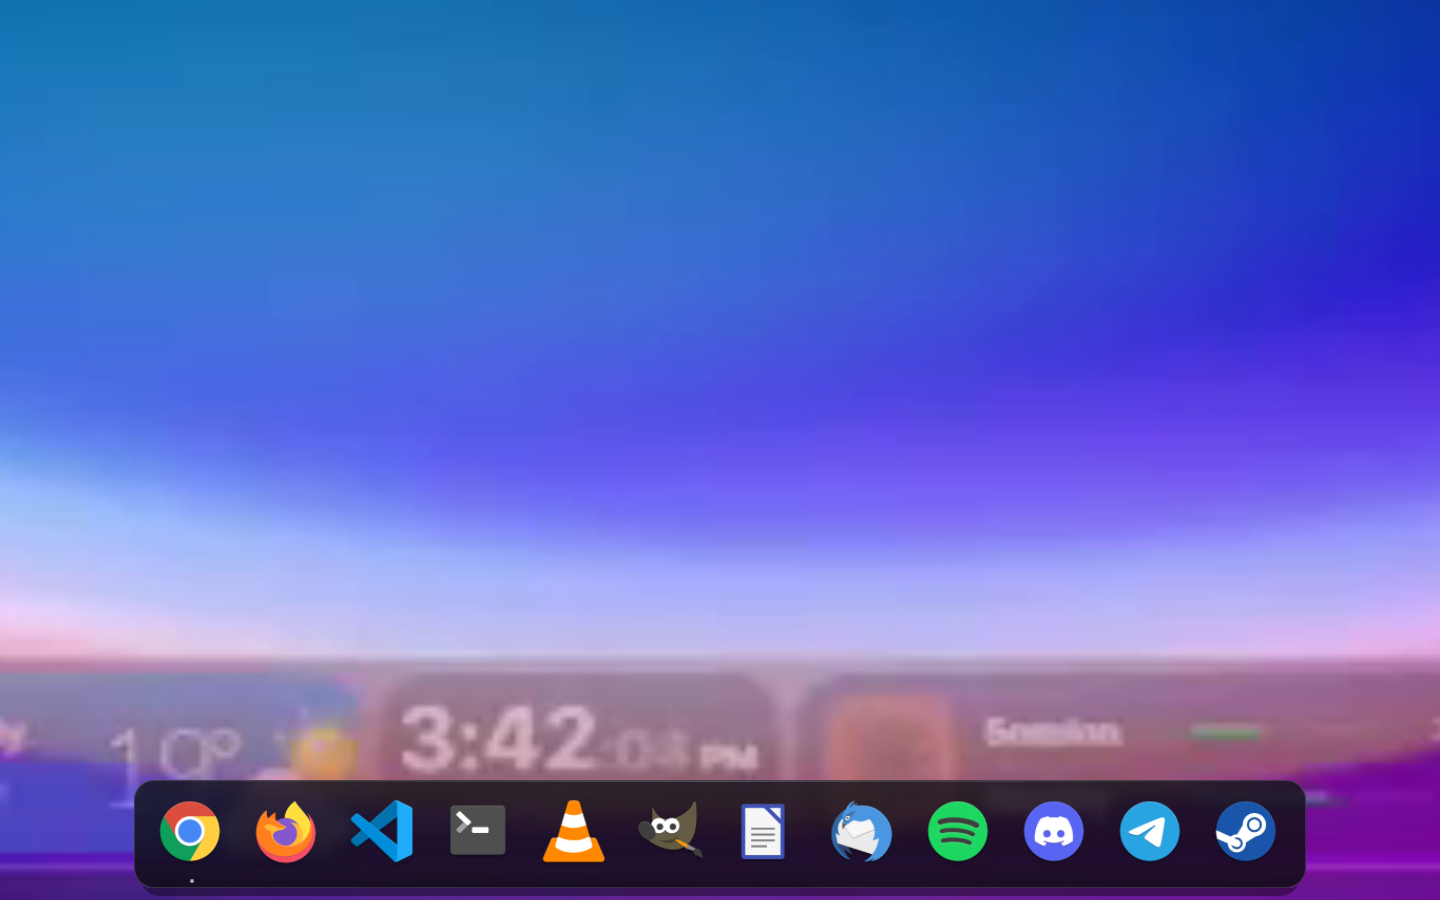
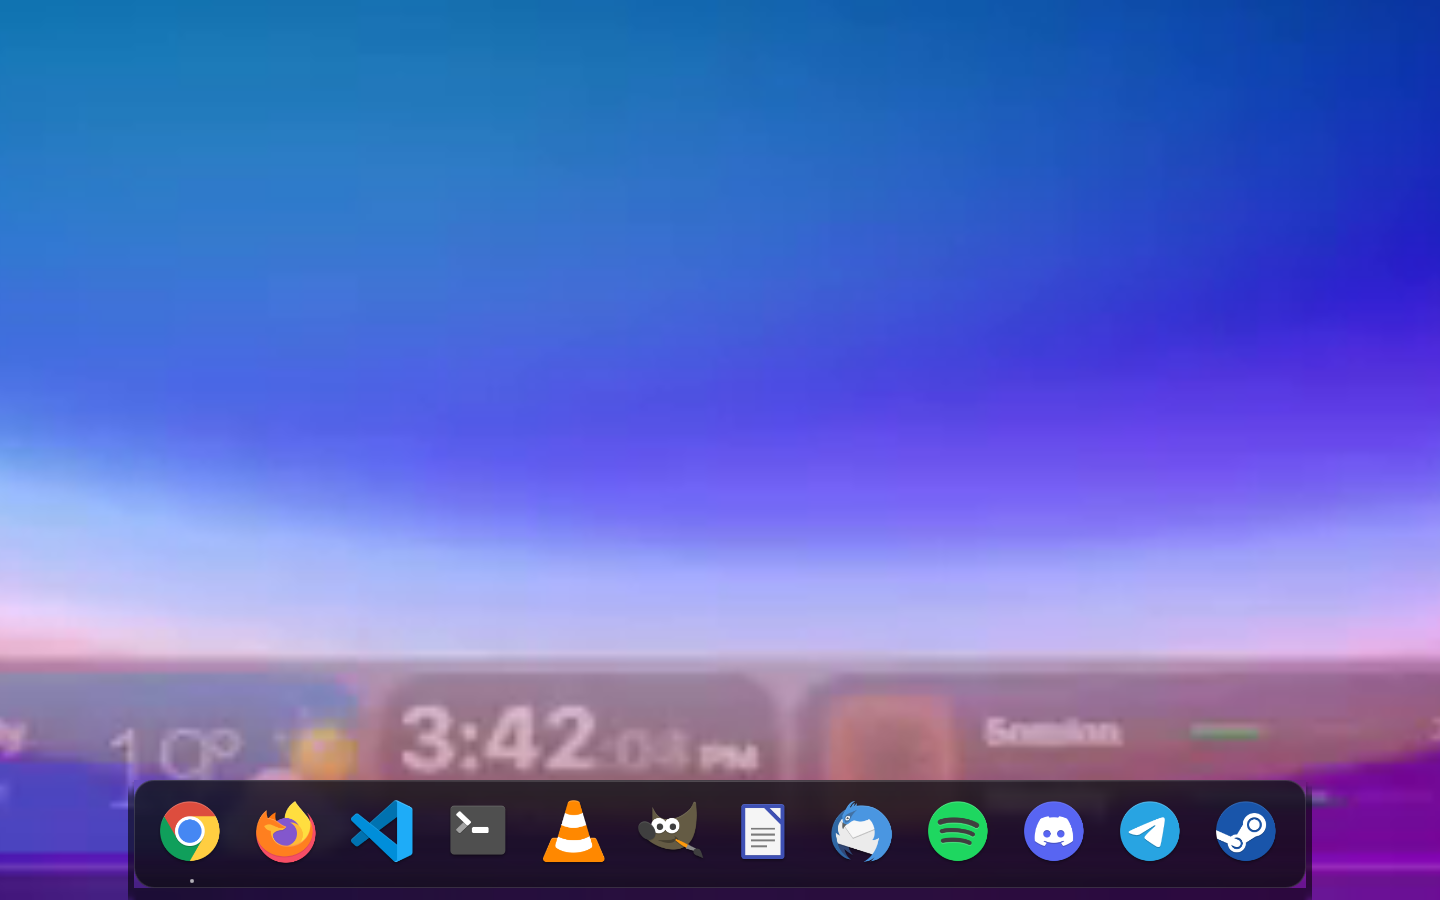
Dock: kare basina efekt maliyeti dusuruldu
- Panel golgesi Python'da bir kez uretilen hazir gorsel; QML layer/MultiEffect kaldirildi.
- Panel maskesi kaldirildi; bulanik goruntu Python'da yuvarlatilmis kose ile uretiliyor.
- Ikonlarda mipmap false.
- Arka plan QTimer tamamen kaldirildi; yakalama yalnizca goster() icinde, pencere gizliyken.
- kanit 01-bos ve 02-hover yenilendi.

Changed region(s): [[0.0625, 0.8711, 0.9375, 1.0]]

diff --git a/qml/Dock.qml b/qml/Dock.qml
@@ -1,5 +1,4 @@
 import QtQuick
-import QtQuick.Effects
 
 Item {
     id: kok
@@ -66,18 +65,17 @@ Item {
         smooth: true
     }
 
-    // Panel ustundeki yumusak golge (8 px asagi).
-    Rectangle {
-        x: panelKutu.x + 6
-        y: panelKutu.y + 8
-        width: panelKutu.width - 12
-        height: panelKutu.height
-        radius: 20
-        color: "#66000000"
-        layer.enabled: true
-        layer.effect: MultiEffect {
-            blurEnabled: false
-        }
+    // Panel golgesi: Python tarafinda bir kez uretilir. Onceden burada
+    // layer + MultiEffect vardi; yazilim render'da her karede ek gecis
+    // maliyeti cikariyordu. Artik tek dokulu dikdortgen.
+    Image {
+        source: golgeUrl
+        x: panelKutu.x - 6
+        y: panelKutu.y + 2
+        width: panelKutu.width + 12
+        height: panelKutu.height + 20
+        fillMode: Image.Stretch
+        smooth: true
     }
 
     Item {
@@ -96,24 +94,6 @@ Item {
             source: kok.arkaplanPanel
             fillMode: Image.Stretch
             cache: false
-            visible: false
-        }
-
-        MultiEffect {
-            anchors.fill: parent
-            source: arkaPlan
-            blurEnabled: false
-            maskEnabled: true
-            maskSource: panelMaske
-        }
-
-        Rectangle {
-            id: panelMaske
-            anchors.fill: parent
-            radius: 20
-            color: "black"
-            layer.enabled: true
-            visible: false
         }
 
         // %80 opak koyu katman + ust isik gradyani.
@@ -204,7 +184,7 @@ Item {
                     sourceSize.height: 160
                     fillMode: Image.PreserveAspectFit
                     smooth: true
-                    mipmap: true
+                    mipmap: false
                     asynchronous: true
                 }
 

diff --git a/dock/ana.py b/dock/ana.py
@@ -16,7 +16,7 @@ from PySide6.QtCore import (
     Qt,
     Slot,
 )
-from PySide6.QtGui import QCursor, QImage
+from PySide6.QtGui import QColor, QCursor, QImage, QPainter, QPainterPath
 from PySide6.QtQuick import QQuickImageProvider
 from PySide6.QtQuickWidgets import QQuickWidget
 from PySide6.QtWidgets import QApplication, QVBoxLayout, QWidget
@@ -160,17 +160,17 @@ class Dock(QWidget):
         baglam.setContextProperty(
             "yerTutucu", QUrl.fromLocalFile(str(KOK / "assets" / "ikon-yok.svg")).toString()
         )
+        # Golge gorseli: her karede blur yerine tek dokulu dikdortgen.
+        self.saglayici.goruntuler["golge"] = self._golge_uret(
+            self._taban_panel_genislik + 24, self._panel_yukseklik + 24
+        )
+        baglam.setContextProperty("golgeUrl", "image://arkaplan/golge")
         self.gorunum.setSource(QUrl.fromLocalFile(str(KOK / "qml" / "Dock.qml")))
         if self.gorunum.status() == QQuickWidget.Error:
             hatalar = " | ".join(h.toString() for h in self.gorunum.errors())
             raise RuntimeError(f"QML yuklenemedi: {hatalar}")
 
     def _zamanlayicilari_kur(self) -> None:
-        self._arkaplan_zaman = QTimer(self)
-        self._arkaplan_zaman.setInterval(3000)
-        self._arkaplan_zaman.timeout.connect(self._arkaplan_yenile)
-        self._arkaplan_zaman.start()
-
         self._fare_zaman = QTimer(self)
         self._fare_zaman.setInterval(50)
         self._fare_zaman.timeout.connect(self._fare_denetle)
@@ -191,12 +191,11 @@ class Dock(QWidget):
             self.move(self._x, self._y_gizli)
             self.show()
             self._gorunur = False
-            self._arkaplan_yenile()
         else:
+            # Yakalama pencere gorunmeden once goster() icinde yapilir.
             self.move(self._x, self._y_gorunur)
-            self._arkaplan_yenile()
+            self.goster()
             self.show()
-            self._gorunur = True
 
     def _acik_pencereleri_tazele(self) -> None:
         """Acik uygulama gostergesi: simdilik yalniz Chrome (wmctrl)."""
@@ -232,9 +231,10 @@ class Dock(QWidget):
     def goster(self) -> None:
         if self._gorunur:
             return
+        # Pencere hala gizliyken yakala: kendi icerigimizi cekmeyiz.
+        self._arkaplan_yenile()
         self._gorunur = True
         self._son_icerde = time.monotonic()
-        self._arkaplan_yenile()
         self._kaydir(self._y_gorunur, 200)
 
     def gizle(self) -> None:
@@ -253,11 +253,48 @@ class Dock(QWidget):
             Qt.IgnoreAspectRatio,
             Qt.SmoothTransformation,
         )
-        return kucuk.scaled(resim.size(), Qt.IgnoreAspectRatio, Qt.SmoothTransformation)
+        bulanik = kucuk.scaled(resim.size(), Qt.IgnoreAspectRatio, Qt.SmoothTransformation)
+        return Dock._koseleri_yuvarlat(bulanik, 20)
+
+    @staticmethod
+    def _koseleri_yuvarlat(resim: QImage, yaricap: int) -> QImage:
+        """Kose yuvarlatmayi goruntuye bir kez uygular.
+
+        QML'de her karede MultiEffect/mask calistirmak yazilim render'da
+        kare basina ~3-4 ms CPU yiyor; burada bir kez yapmak bedava.
+        """
+        resim = resim.convertToFormat(QImage.Format_RGBA8888)
+        boya = QPainter(resim)
+        boya.setRenderHint(QPainter.Antialiasing, True)
+        boya.setCompositionMode(QPainter.CompositionMode_DestinationIn)
+        yol = QPainterPath()
+        yol.addRoundedRect(0, 0, resim.width(), resim.height(), yaricap, yaricap)
+        boya.fillPath(yol, Qt.black)
+        boya.end()
+        return resim
+
+    @staticmethod
+    def _golge_uret(gen: int, yuk: int, kat: int = 6) -> QImage:
+        """Panel golgesini bir kez uretir (yuvarlat + ucuz blur).
+
+        Onceden QML'de golge bir layer + MultiEffect idi ve panel genisligi
+        her degistiginde yeniden isleniyordu.
+        """
+        resim = QImage(max(4, gen), max(4, yuk), QImage.Format_RGBA8888)
+        resim.fill(Qt.transparent)
+        boya = QPainter(resim)
+        boya.setRenderHint(QPainter.Antialiasing, True)
+        boya.setPen(Qt.NoPen)
+        boya.setBrush(QColor(0, 0, 0, 150))
+        boya.drawRoundedRect(0, 0, gen, yuk, 20, 20)
+        boya.end()
+        kucuk = resim.scaled(
+            max(2, gen // kat), max(2, yuk // kat), Qt.IgnoreAspectRatio, Qt.SmoothTransformation
+        )
+        return kucuk.scaled(gen, yuk, Qt.IgnoreAspectRatio, Qt.SmoothTransformation)
 
     def _arkaplan_yenile(self) -> None:
-        """Masaustunu yakalar. Pencere gorunurken kendi icerigini yakalamamak
-        icin erteleme yapilir; autoHide gizliyken tazelenir."""
+        """Masaustunu yakalar; yalnizca goster() cagirir (QTimer yok)."""
         if self._gorunur and self.geometry().intersects(
             QRect(self._x, self._y_gorunur, self._gen, self._yuk)
         ):
@@ -280,7 +317,9 @@ class Dock(QWidget):
                 self._panel_yukseklik,
             )
         )
-        self.saglayici.goruntuler = {"tam": tam, "panel": self._bulanik(panel)}
+        # "golge" anahtarini koru: sozlugu tumden degistirmek gorseli siler.
+        self.saglayici.goruntuler["tam"] = tam
+        self.saglayici.goruntuler["panel"] = self._bulanik(panel)
         self._sayac += 1
         kok.setProperty("arkaplanTam", f"image://arkaplan/tam?{self._sayac}")
         kok.setProperty("arkaplanPanel", f"image://arkaplan/panel?{self._sayac}")
